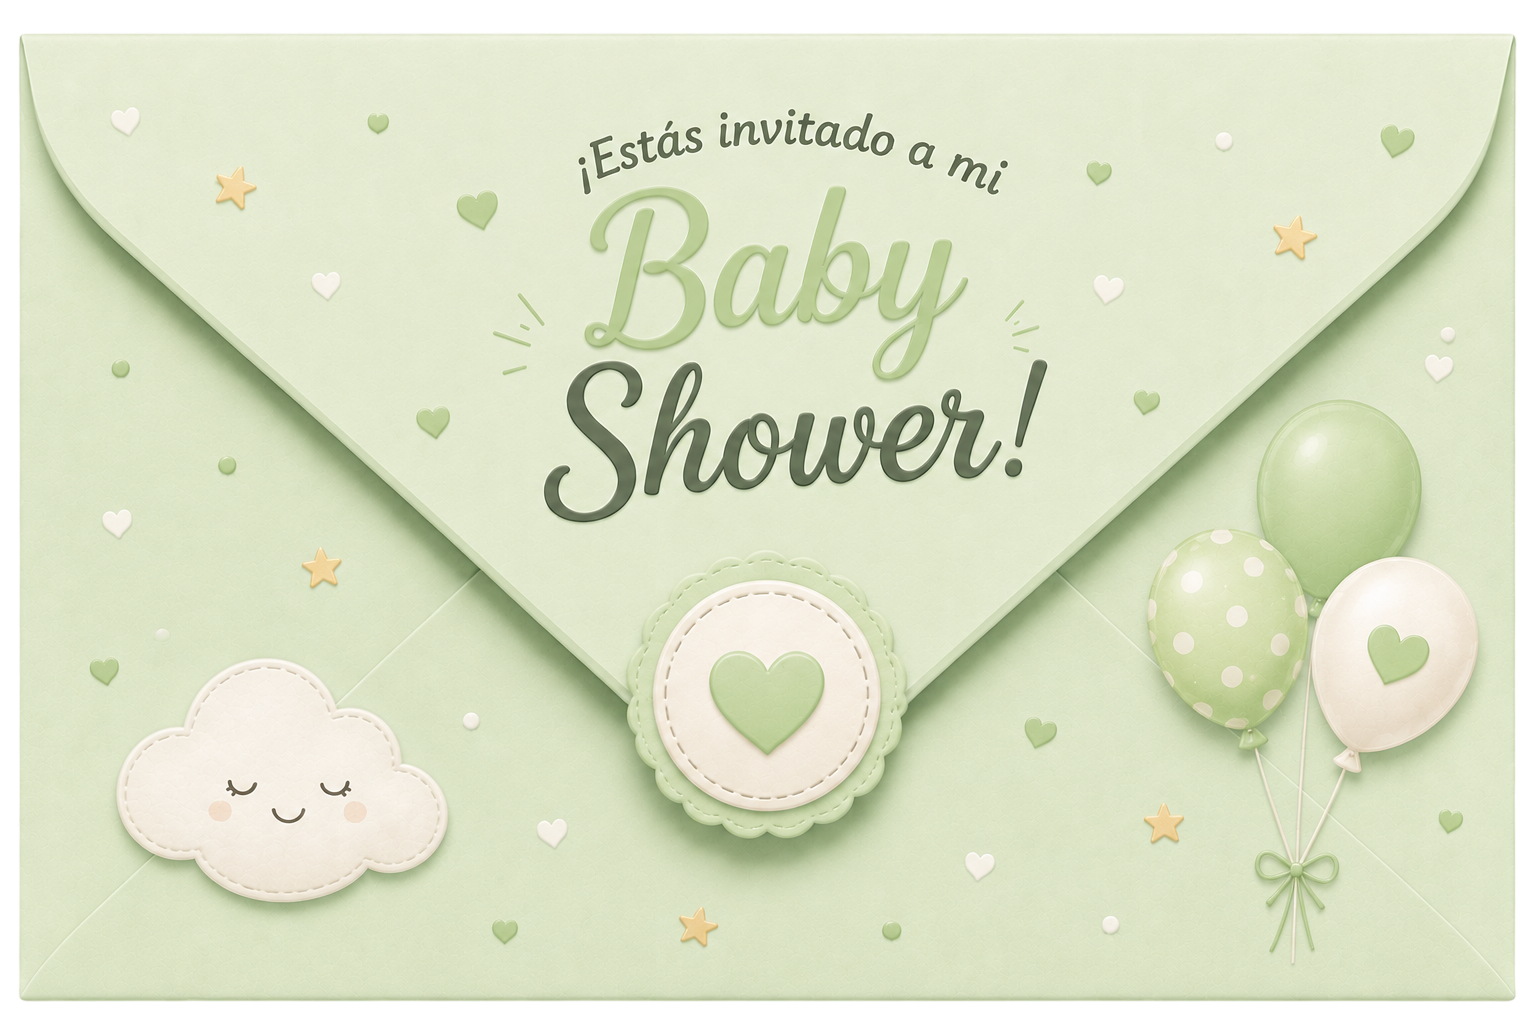
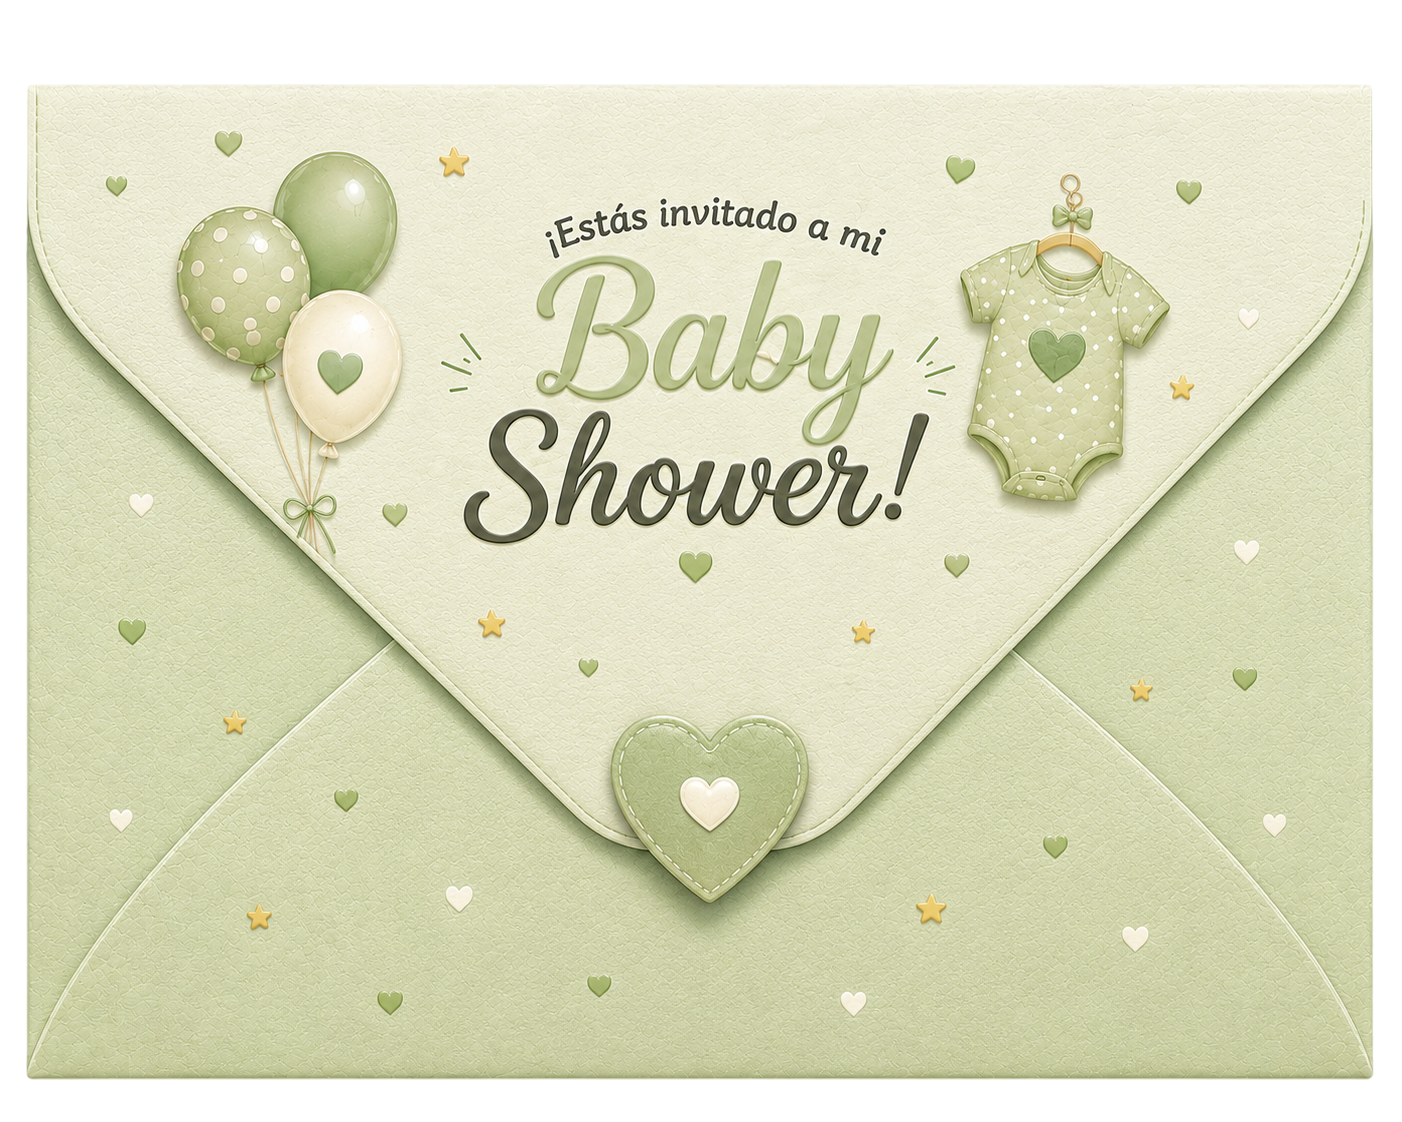
h

diff --git a/src/data/colombia.ts b/src/data/colombia.ts
@@ -460,6 +460,14 @@ export const colombiaInvitations: Invitation[] = [
     closedImage: "/Green Baby close.png",
     openImage: "/babyshower_green_open.png",
   },
+  {
+    title: "Green Bear",
+    category: "Baby Shower",
+    country: "co",
+    price: "$39",
+    closedImage: "/Green Baby close.png",
+    openImage: "/Green Bear open.png",
+  },
 
   {
     title: "Golden Christmas",